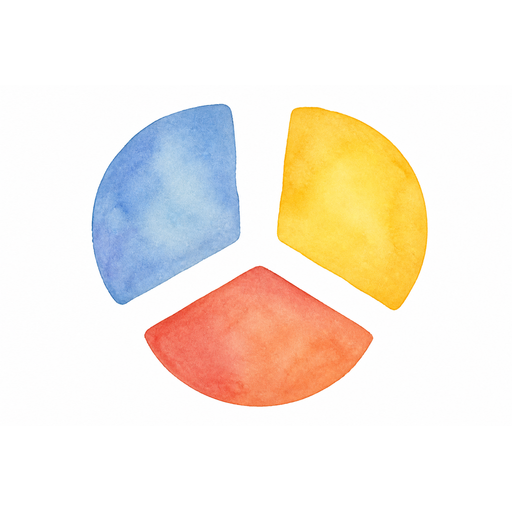
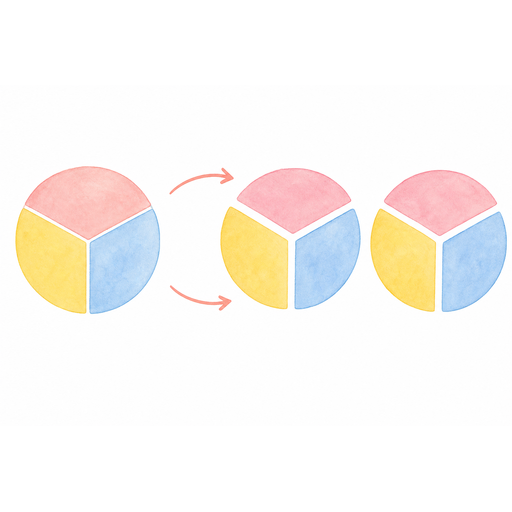
fix: 삼권분립 뒤 연출 복구·권 오매칭·분/립 이미지
첫 어절만 청크가 타임라인을 가리고, 권은 삼권분립 2번째 글자에서만 매칭. 국회·정부·법원 라벨, 분/립 PNG 재생성.

diff --git a/src/data/separationChunkVisualDictionary.ts b/src/data/separationChunkVisualDictionary.ts
@@ -14,6 +14,7 @@ export const SEPARATION_CHUNK_VISUAL_DICTIONARY: VisualDictionaryEntry[] = [
     z_index: 45,
     tags: ['도입'],
     chunk_hints: ['권력'],
+    match_start_indices: [0],
     plate_caption: '권력(권리와 힘)',
     status: 'ready',
   },
@@ -27,6 +28,7 @@ export const SEPARATION_CHUNK_VISUAL_DICTIONARY: VisualDictionaryEntry[] = [
     z_index: 45,
     tags: ['도입'],
     chunk_hints: ['분립'],
+    match_start_indices: [2],
     plate_caption: '분립(나누어 세움)',
     status: 'ready',
   },
@@ -40,6 +42,7 @@ export const SEPARATION_CHUNK_VISUAL_DICTIONARY: VisualDictionaryEntry[] = [
     z_index: 40,
     tags: ['삼권분립', '숫자'],
     chunk_hints: ['삼'],
+    match_start_indices: [0],
     status: 'ready',
   },
   {
@@ -48,10 +51,16 @@ export const SEPARATION_CHUNK_VISUAL_DICTIONARY: VisualDictionaryEntry[] = [
     synonyms: [],
     part_of_speech: 'noun',
     file_name: 'sep_three_powers_circle_01.png',
-    image_direction: '원 안에 입법부·행정부·사법부 3등분',
+    image_direction: '원 안 3등분 — 국회·정부·법원',
     z_index: 41,
     tags: ['삼권분립'],
     chunk_hints: ['권'],
+    match_start_indices: [1],
+    anchor_labels: [
+      { text: '국회', leftPct: 22, topPct: 40 },
+      { text: '정부', leftPct: 50, topPct: 24 },
+      { text: '법원', leftPct: 78, topPct: 40 },
+    ],
     status: 'ready',
   },
   {
@@ -60,10 +69,11 @@ export const SEPARATION_CHUNK_VISUAL_DICTIONARY: VisualDictionaryEntry[] = [
     synonyms: [],
     part_of_speech: 'verb',
     file_name: 'sep_circle_split_01.png',
-    image_direction: '원이 세 조각으로 쪼개지는 그림',
+    image_direction: '3등분 원 → 쪼개진 원 두 개와 화살표',
     z_index: 42,
     tags: ['삼권분립'],
     chunk_hints: ['분'],
+    match_start_indices: [2],
     status: 'ready',
   },
   {
@@ -71,11 +81,12 @@ export const SEPARATION_CHUNK_VISUAL_DICTIONARY: VisualDictionaryEntry[] = [
     word: '립',
     synonyms: [],
     part_of_speech: 'verb',
-    file_name: 'sep_powers_check_01.png',
-    image_direction: '세 권력이 서로 견제하는 화살표·저울',
+    file_name: 'sep_tower_raise_01.png',
+    image_direction: '쓰러진 탑이 다시 세워지는 그림',
     z_index: 43,
     tags: ['삼권분립'],
     chunk_hints: ['립'],
+    match_start_indices: [3],
     status: 'ready',
   },
   {
@@ -87,7 +98,8 @@ export const SEPARATION_CHUNK_VISUAL_DICTIONARY: VisualDictionaryEntry[] = [
     image_direction: '조선시대 느낌 중년 왕, 국가권력 상징',
     z_index: 38,
     tags: ['도입'],
-    chunk_hints: ['국가권력', '국가'],
+    chunk_hints: ['국가권력'],
+    match_start_indices: [7],
     status: 'ready',
   },
 ]

diff --git a/src/lib/mergePlayLayers.ts b/src/lib/mergePlayLayers.ts
@@ -1,14 +1,23 @@
 import { CHUNK_LAYER_PREFIX } from './buildChunkVisualLayers'
 import type { LayerState } from '../types/pack'
 
+export type MergePlayLayersOptions = {
+  /** 삼권분립 첫 어절 등 — 청크만 쓸 때 타임라인 큰 레이어 숨김 */
+  hideTimelineForChunk?: boolean
+}
+
 /** 팩/타임라인 레이어 + 의미 청크 레이어 병합 */
-export function mergePlayLayers(baseLayers: LayerState[], chunkLayers: LayerState[]): LayerState[] {
+export function mergePlayLayers(
+  baseLayers: LayerState[],
+  chunkLayers: LayerState[],
+  options?: MergePlayLayersOptions,
+): LayerState[] {
   if (chunkLayers.length === 0) return baseLayers
 
+  const hideTimeline = options?.hideTimelineForChunk === true
   const filteredBase = baseLayers.filter((l) => {
     if (!l.visible || !l.imageUrl) return false
-    // 청크 연출 중 samgwon·도입 전체화면 등과 겹치지 않게 큰 레이어 숨김
-    if (l.fillHeight || (l.width ?? 100) >= 85) return false
+    if (hideTimeline && (l.fillHeight || (l.width ?? 100) >= 85)) return false
     return true
   })
 
@@ -17,4 +26,17 @@ export function mergePlayLayers(baseLayers: LayerState[], chunkLayers: LayerStat
 
 export function isChunkLayerId(id: string): boolean {
   return id.startsWith(CHUNK_LAYER_PREFIX)
+}
+
+/** 삼권분립 팩 — 청크만 단독으로 쓰는 구간(이후 타임라인 연출 유지) */
+export function separationChunkHidesTimeline(
+  bookId: string | undefined,
+  sentenceIndex: number,
+  visualTypedLen: number,
+  chunkCount: number,
+): boolean {
+  if (bookId !== 'demo-separation-three-powers' || chunkCount === 0) return false
+  if (sentenceIndex === 0) return visualTypedLen <= 4
+  if (sentenceIndex === 1) return visualTypedLen <= 6
+  return false
 }

diff --git a/src/pages/PlayPage.tsx b/src/pages/PlayPage.tsx
@@ -20,7 +20,7 @@ import { useMobileStageHeight } from '../hooks/useMobileStageHeight'
 import { getActiveVocabGlosses, vocabTypedLength } from '../lib/getActiveVocabGlosses'
 import { useTimelinePlayback } from '../hooks/useTimelinePlayback'
 import { useChunkVisualLayers } from '../hooks/useChunkVisualLayers'
-import { mergePlayLayers } from '../lib/mergePlayLayers'
+import { mergePlayLayers, separationChunkHidesTimeline } from '../lib/mergePlayLayers'
 import { playbackTypedLength, playbackTypedPrefix } from '../lib/typingMatch'
 import { bookUsesChunkVisuals } from '../lib/storyVisualDictionary'
 import { findVisualMatchesInText } from '../lib/matchVisualChunks'
@@ -246,9 +246,14 @@ export default function PlayPage() {
 
   const { layers: timelineLayers, stageFx } = useTimelinePlayback(bookId, sentence, visualTypedLen)
   const chunkLayers = useChunkVisualLayers(visualTyped, bookId, pack?.visualDictionaryStoryId)
+  const hideTimelineForChunk = useMemo(
+    () =>
+      separationChunkHidesTimeline(bookId, safeSentenceIndex, visualTypedLen, chunkLayers.length),
+    [bookId, safeSentenceIndex, visualTypedLen, chunkLayers.length],
+  )
   const layers = useMemo(
-    () => mergePlayLayers(timelineLayers, chunkLayers),
-    [timelineLayers, chunkLayers],
+    () => mergePlayLayers(timelineLayers, chunkLayers, { hideTimelineForChunk }),
+    [timelineLayers, chunkLayers, hideTimelineForChunk],
   )
 
   const useChunkMode = bookUsesChunkVisuals(bookId, pack?.visualDictionaryStoryId)

diff --git a/src/lib/buildChunkVisualLayers.ts b/src/lib/buildChunkVisualLayers.ts
@@ -37,6 +37,7 @@ const SINGLE_BOX: BoxLayout = { x: 0, y: 0, width: 100, height: 100 }
 
 function entryToLayer(entry: VisualDictionaryEntry, box: BoxLayout): LayerState {
   const plate = entry.plate_caption?.trim() || null
+  const anchors = entry.anchor_labels?.length ? entry.anchor_labels : null
   return {
     id: `${CHUNK_LAYER_PREFIX}${entry.word_id}`,
     label: entry.word,
@@ -49,10 +50,11 @@ function entryToLayer(entry: VisualDictionaryEntry, box: BoxLayout): LayerState 
     width: box.width,
     height: box.height,
     scale: 1,
-    fillHeight: !plate && box.width >= 96,
+    fillHeight: !plate && !anchors && box.width >= 96,
     panX: 0,
     panY: 0,
     plateCaption: plate,
+    anchorLabels: anchors,
   }
 }
 
@@ -91,7 +93,11 @@ export function buildChunkVisualLayers(
   const matches = findVisualMatchesInText(typed, entries)
   if (matches.length === 0) return []
 
-  const visible = pickVisibleEntries(matches)
+  const tailLen = typed.length
+  const tailMatches = matches.filter((m) => m.end === tailLen)
+  if (tailMatches.length === 0) return []
+
+  const visible = pickVisibleEntries(tailMatches)
   const boxes = overlayBoxLayouts(visible.length)
 
   return visible

diff --git a/src/types/visualDictionary.ts b/src/types/visualDictionary.ts
@@ -1,3 +1,5 @@
+import type { LayerAnchorLabel } from './pack'
+
 /** 수어·의미 청크 시각 사전 — 품사(레이어 역할) */
 export type VisualPartOfSpeech =
   | 'background'
@@ -31,6 +33,10 @@ export type VisualDictionaryEntry = {
   updated_at?: string
   /** 청크 레이어 하단 막대에 표시할 설명(예: 권력(권리와 힘)) */
   plate_caption?: string
+  /** 이 시작 인덱스에서만 매칭 (한 글자 청크 오매칭 방지) */
+  match_start_indices?: number[]
+  /** 이미지 위 라벨(예: 국회·정부·법원) */
+  anchor_labels?: LayerAnchorLabel[]
 }
 
 export type VisualDictionaryInsertMode = 'background' | 'overlay' | 'frame'

diff --git a/src/lib/matchVisualChunks.ts b/src/lib/matchVisualChunks.ts
@@ -45,11 +45,17 @@ export function findVisualMatchesInText(
           }
         }
         if (!overlap) {
+          const absStart = offset + idx
+          const allowed = entry.match_start_indices
+          if (allowed != null && allowed.length > 0 && !allowed.includes(absStart)) {
+            i = idx + 1
+            continue
+          }
           for (let j = idx; j < end; j++) used[j] = true
           matches.push({
             entry,
             matchedText: needle,
-            start: offset + idx,
+            start: absStart,
             end: offset + end,
           })
         }

diff --git a/src/data/packContentVersions.ts b/src/data/packContentVersions.ts
@@ -5,7 +5,7 @@ import { useCustomPicbookStore } from '../state/customPicbookStore'
  * 이미 구매(잠금 해제)한 사용자에게도 재생 시 최신 팩이 자동 적용된다.
  */
 export const PACK_CONTENT_VERSIONS: Record<string, string> = {
-  'demo-separation-three-powers': '12',
+  'demo-separation-three-powers': '13',
   'elementary-proverbs': '32',
   'tortoise-and-hare': '4',
 }
